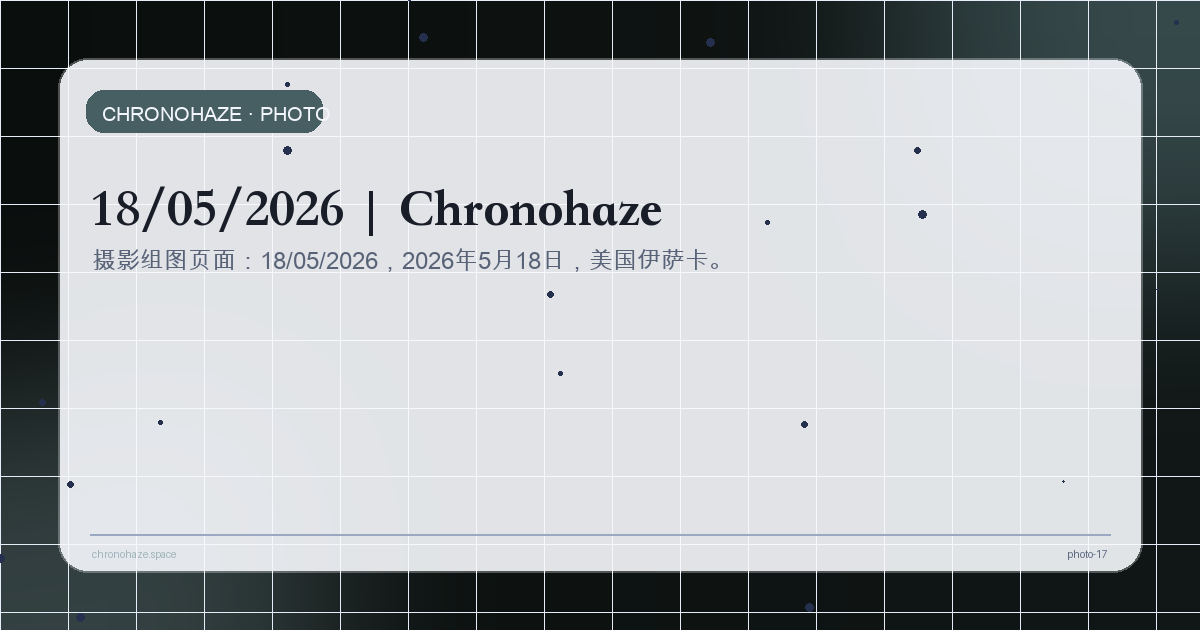
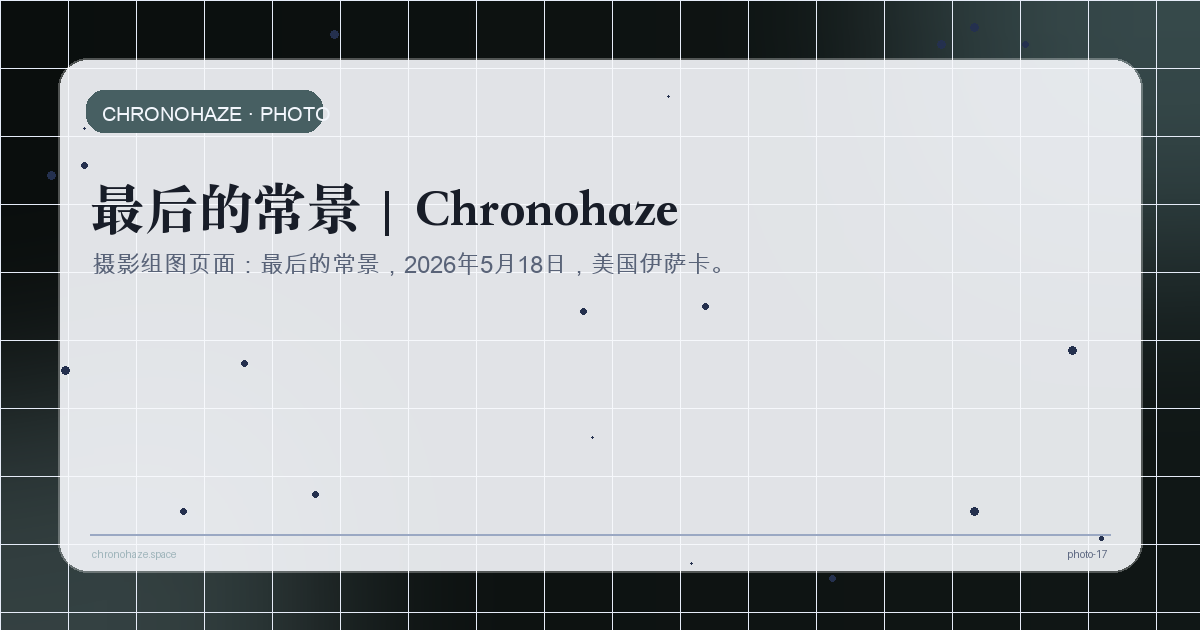
Rename May 18 photo series

Changed region(s): [[0.0617, 0.2714, 0.5858, 0.4524], [0.2158, 0.3921, 0.4625, 0.4524], [0.4933, 0.3921, 0.5858, 0.4524]]

diff --git a/photo/photo-17.html b/photo/photo-17.html
@@ -139,17 +139,17 @@
   </script>
   <link rel="icon" type="image/x-icon" href="../assets/favicon.ico?v=4" />
   <link rel="apple-touch-icon" href="../assets/apple-touch-icon.png?v=4" />
-  <title>18/05/2026 | 摄影 | Chronohaze</title>
-  <meta name="description" content="摄影组图页面：18/05/2026，2026年5月18日，美国伊萨卡。" />
+  <title>最后的常景 | 摄影 | Chronohaze</title>
+  <meta name="description" content="摄影组图页面：最后的常景，2026年5月18日，美国伊萨卡。" />
   <meta property="og:type" content="article" />
   <meta property="og:site_name" content="Chronohaze" />
-  <meta property="og:title" content="18/05/2026 | Chronohaze" />
-  <meta property="og:description" content="摄影组图页面：18/05/2026，2026年5月18日，美国伊萨卡。" />
+  <meta property="og:title" content="最后的常景 | Chronohaze" />
+  <meta property="og:description" content="摄影组图页面：最后的常景，2026年5月18日，美国伊萨卡。" />
   <meta property="og:url" content="https://lyuf09.github.io/chronohaze/photo/photo-17.html" />
   <meta property="og:image" content="https://lyuf09.github.io/chronohaze/assets/og/site/photo-17.png" />
   <meta name="twitter:card" content="summary_large_image" />
-  <meta name="twitter:title" content="18/05/2026 | Chronohaze" />
-  <meta name="twitter:description" content="摄影组图页面：18/05/2026，2026年5月18日，美国伊萨卡。" />
+  <meta name="twitter:title" content="最后的常景 | Chronohaze" />
+  <meta name="twitter:description" content="摄影组图页面：最后的常景，2026年5月18日，美国伊萨卡。" />
   <meta name="twitter:image" content="https://lyuf09.github.io/chronohaze/assets/og/site/photo-17.png" />
   <link rel="canonical" href="https://lyuf09.github.io/chronohaze/photo/photo-17.html" />
 
@@ -221,7 +221,7 @@
 
     <main class="main">
       <article class="article photo-detail-article">
-        <h1 data-copy-en="18/05/2026" data-copy-zh="18/05/2026">18/05/2026</h1>
+        <h1 data-copy-en="The Last Ordinary Views" data-copy-zh="最后的常景">最后的常景</h1>
         <p class="photo-detail-date" data-copy-en="18/05/2026" data-copy-zh="18/05/2026">18/05/2026</p>
         <p class="article-meta">美国伊萨卡 · 2026年</p>
         <div class="photo-detail-gallery">

diff --git a/photography.html b/photography.html
@@ -252,10 +252,10 @@
 <a class="photo-card-link" href="photo/photo-17.html">
 <picture class="responsive-picture" style="display:block;width:100%;">
 <source sizes="(max-width: 640px) 92vw, (max-width: 980px) 46vw, 29vw" srcset="assets/images/wix/ithaca-20260518-01-960.webp 960w, assets/images/wix/ithaca-20260518-01-1600.webp 1600w" type="image/webp"/>
-<img alt="摄影系列预览图：18/05/2026 — 美国伊萨卡 · 2026年" decoding="async" height="1728" loading="lazy" sizes="(max-width: 640px) 92vw, (max-width: 980px) 46vw, 29vw" src="assets/images/wix/ithaca-20260518-01-960.webp" width="2592"/>
+<img alt="摄影系列预览图：最后的常景 — 美国伊萨卡 · 2026年" decoding="async" height="1728" loading="lazy" sizes="(max-width: 640px) 92vw, (max-width: 980px) 46vw, 29vw" src="assets/images/wix/ithaca-20260518-01-960.webp" width="2592"/>
 </picture>
 <div class="photo-meta">
-<p class="photo-title" data-copy-en="18/05/2026" data-copy-zh="18/05/2026">18/05/2026</p>
+<p class="photo-title" data-copy-en="The Last Ordinary Views" data-copy-zh="最后的常景">最后的常景</p>
 <p class="photo-date" data-copy-en="18/05/2026" data-copy-zh="18/05/2026">18/05/2026</p>
 <p class="photo-subtitle" data-copy-en="Read More" data-copy-zh="阅读全文">阅读全文</p>
 </div>

diff --git a/search.html b/search.html
@@ -214,10 +214,10 @@
 </div>
 <script id="search-inline-fallback" type="application/json">
 {
-  "generated_at": "2026-05-21",
+  "generated_at": "2026-05-22",
   "items": [
     {
-      "title": "18/05/2026",
+      "title": "最后的常景",
       "url": "photo/photo-17.html",
       "section": "Photography",
       "date": "18/05/2026",
@@ -227,7 +227,7 @@
       ],
       "sort": 20260518,
       "scope": "photo",
-      "content": "chronohaze.space 主页 数学 摄影 音乐 CV 18/05/2026 18/05/2026 18/05/2026 美国伊萨卡 · 2026年 2026年5月18日 美国伊萨卡 返回摄影栏目 chronohaze.space"
+      "content": "chronohaze.space 主页 数学 摄影 音乐 CV 最后的常景 The Last Ordinary Views 18/05/2026 美国伊萨卡 · 2026年 2026年5月18日 美国伊萨卡 返回摄影栏目 chronohaze.space"
     },
     {
       "title": "街道复健",
